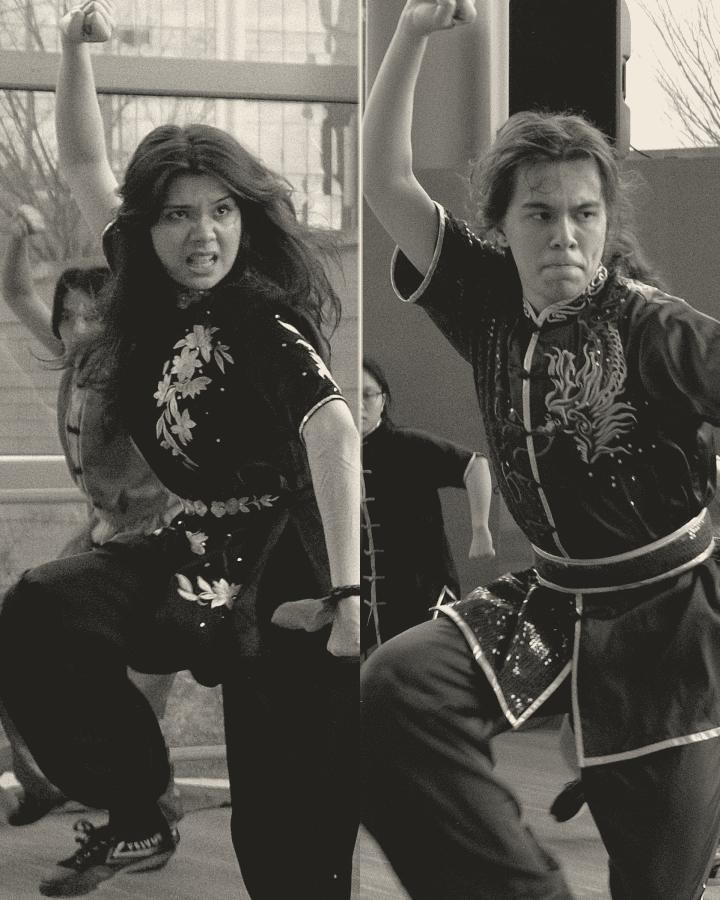
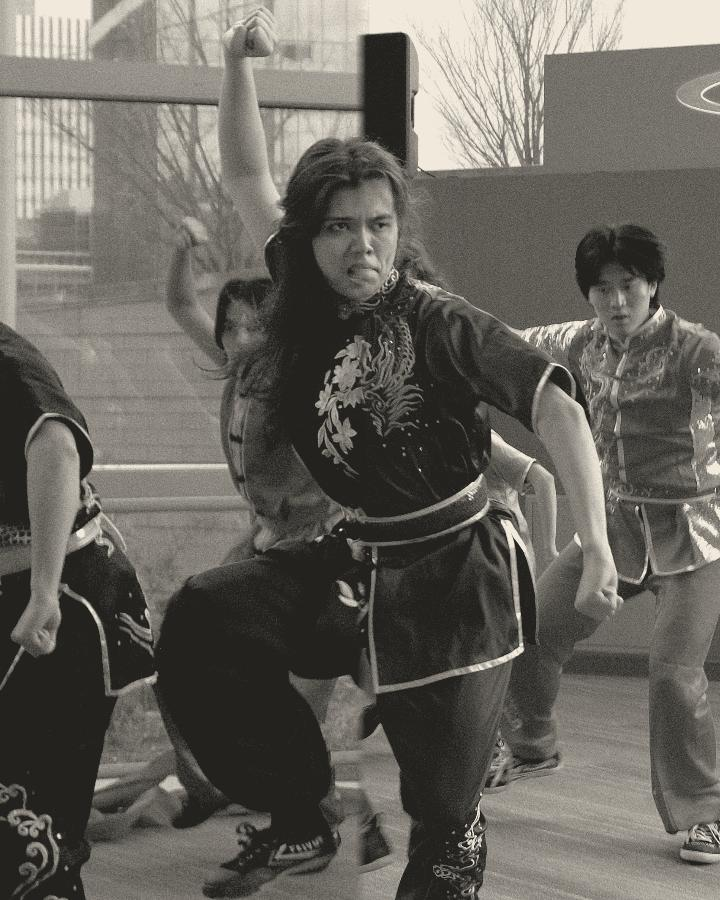
Giving Day: the $50 is one figure made of two siblings
The card was a diptych, two panels side by side. It is now a single figure:
the sister's left side joined to her brother's right down the middle of the
face. Both halves come out of the same frame of the same group doing the same
move, which is what makes it work — she has an arm raised and he has an arm
extended, so the composite is a complete stance rather than two half-poses.

The two eye lines are put on the same row and his half is scaled by 0.861, so
the faces measure the same. He was standing closer to the camera: measured off
a 5x zoom of the card, eye spacing was 31px against his 36px and eye-to-chin
65px against 72px, so he was 11-16% larger. That is the choice the club made
over the alternative, both halves at their own scale, which gives a better
body and a face wider on one side than the other. The cost is that his sleeve
and arm come out slightly smaller than hers.

The landmarks were read off the card and mapped back through each panel's crop
box into the full-resolution original, so the file is built from the source
once rather than from an already-compressed card.

The card loses "pair": true with the diptych and goes back to the ordinary
one-hole wash, which now sits on the composite face at 0.000. The mechanism
stays in the generator and the stylesheet, unused, because the diptych is one
JSON key away from coming back.

The alt text says what the picture is. A composite of two real people
[…]

diff --git a/giving-day.html b/giving-day.html
@@ -255,9 +255,9 @@
             </div>
             <span class="gd-tier__btn gd-btn--pending" aria-disabled="true">Soon</span>
           </li>
-          <li class="gd-tier gd-tier--shot gd-tier--pair">
+          <li class="gd-tier gd-tier--shot">
             <div class="gd-tier__shot">
-              <img src="images/giving-day/tier-50.jpg" alt="Two club members, a sister and a brother, holding the same stance side by side" width="720" height="900"
+              <img src="images/giving-day/tier-50.jpg" alt="One figure made of two club members, a sister and a brother, joined down the middle: her left side, his right" width="720" height="900"
                    loading="lazy" decoding="async">
             </div>
             <span class="gd-tier__amount">$50</span>

diff --git a/README.md b/README.md
@@ -808,9 +808,11 @@ become a thank-you with the final number.
 ### The tiers are photographs
 
 Each tier card carries one of the club's own photographs: a mid-air leap with a sword at $10,
-a costumed turn on stage at $25, a pair of hook swords at $100 — and at $50 a diptych, a
-sister and a brother cut from the same frame of the same group doing the same move, scaled so
-their faces match and laid side by side with a paper seam. They sit at
+a costumed turn on stage at $25, a pair of hook swords at $100 — and at $50 one figure made of
+two people, a sister and her brother joined down the middle of the face, cut from the same
+frame of the same group doing the same move. Her left side, his right, his half scaled until
+the two faces measure the same. The alt text says so: a composite described as "a club member"
+would be a small lie on a page asking for money. They sit at
 the top of the card, bleed through its padding to the torn edge, and dissolve into the paper at
 the bottom so there is no seam. The files are in `images/giving-day/` and each tier names one with `photo`,
 plus an `alt` describing the picture for anyone who cannot see it.
@@ -869,8 +871,9 @@ Things that are easy to get wrong here:
   gradients stack. The $50 card carries two performers and needs two holes, and two stacked
   radial gradients doubled the wash wherever they overlapped — tried, and it nearly erased all
   four photographs. Black painted twice into a mask is still black. A tier with `"pair": true`
-  gets `gd-tier--pair` and the two-hole wash; the lobes are positioned where the performers
-  are, so moving a crop means moving a lobe. All of it is in `giving-day.css` under
+  gets `gd-tier--pair` and a two-hole wash, with the lobes where the two performers are.
+  Nothing uses it today — the $50 was a two-panel diptych before it became a splice, and the
+  mechanism is kept because that is one JSON key away from coming back. All of it is in `giving-day.css` under
   `.gd-tier__shot`, and the flagged card mixes its own copy in `--paper` rather than
   `--paper-card`, because it sits on slightly different paper.
 - **The crop boxes are recorded, not improvised.** Each picture is a named region of a
